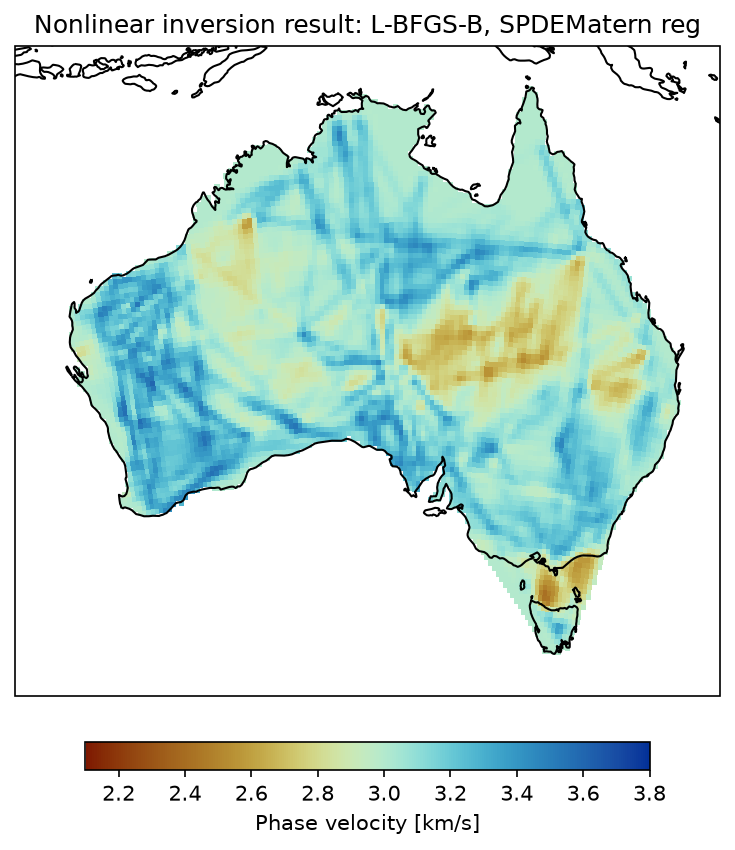
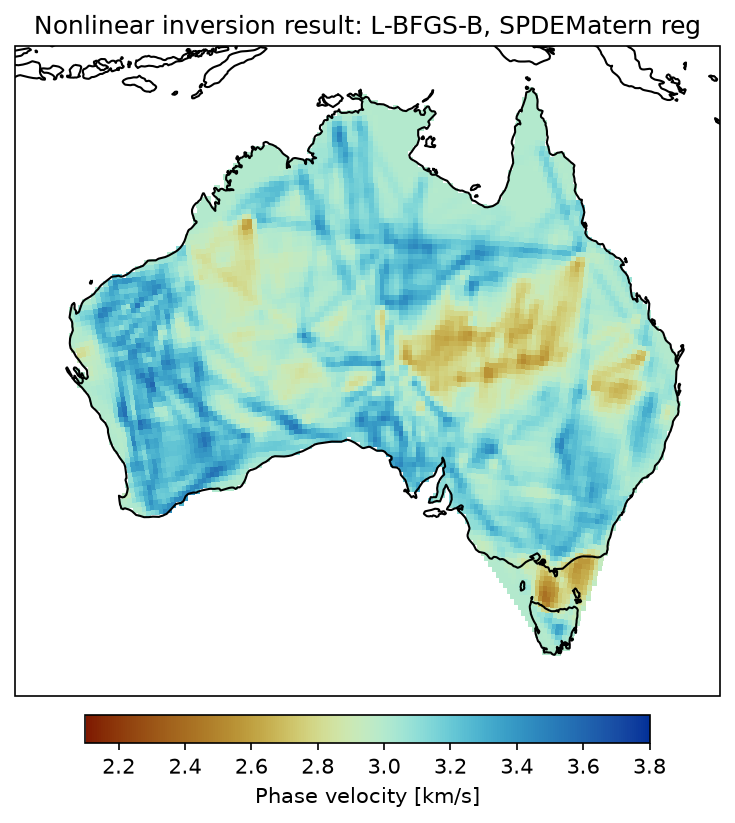
fix: reduce colorbar padding in nonlinear pyfm2d map plots
Reduces pad from 0.05 to 0.02 in the grid_shape branch of plot_map,
bringing the colorbar gap in nonlinear figures in line with the linear
and trans-D plots. Regenerated Nonlinear_LBFGSB and Nonlinear_LS_aug
figures.

diff --git a/cofi-paper/notebooks/practitioner.py b/cofi-paper/notebooks/practitioner.py
@@ -640,7 +640,7 @@ def _(australia_polygon, ccrs, np, plt, scm, seislib_plot_map, tomo):
             _mask = _shapely.contains_xy(australia_polygon, _lon_g.ravel(), _lat_g.ravel())
             _data = np.where(_mask.reshape(_lon_g.shape), _data, np.nan)
             img = ax.pcolormesh(_lon_g, _lat_g, _data, cmap=cmap, transform=transform, vmin=vmin, vmax=vmax)
-            cb = fig.colorbar(img, ax=ax, orientation='horizontal', shrink=0.8, pad=0.05)
+            cb = fig.colorbar(img, ax=ax, orientation='horizontal', shrink=0.8, pad=0.02)
         else:
             _mesh = tomo.grid.mesh
             _lons = (_mesh[:, 2] + _mesh[:, 3]) / 2